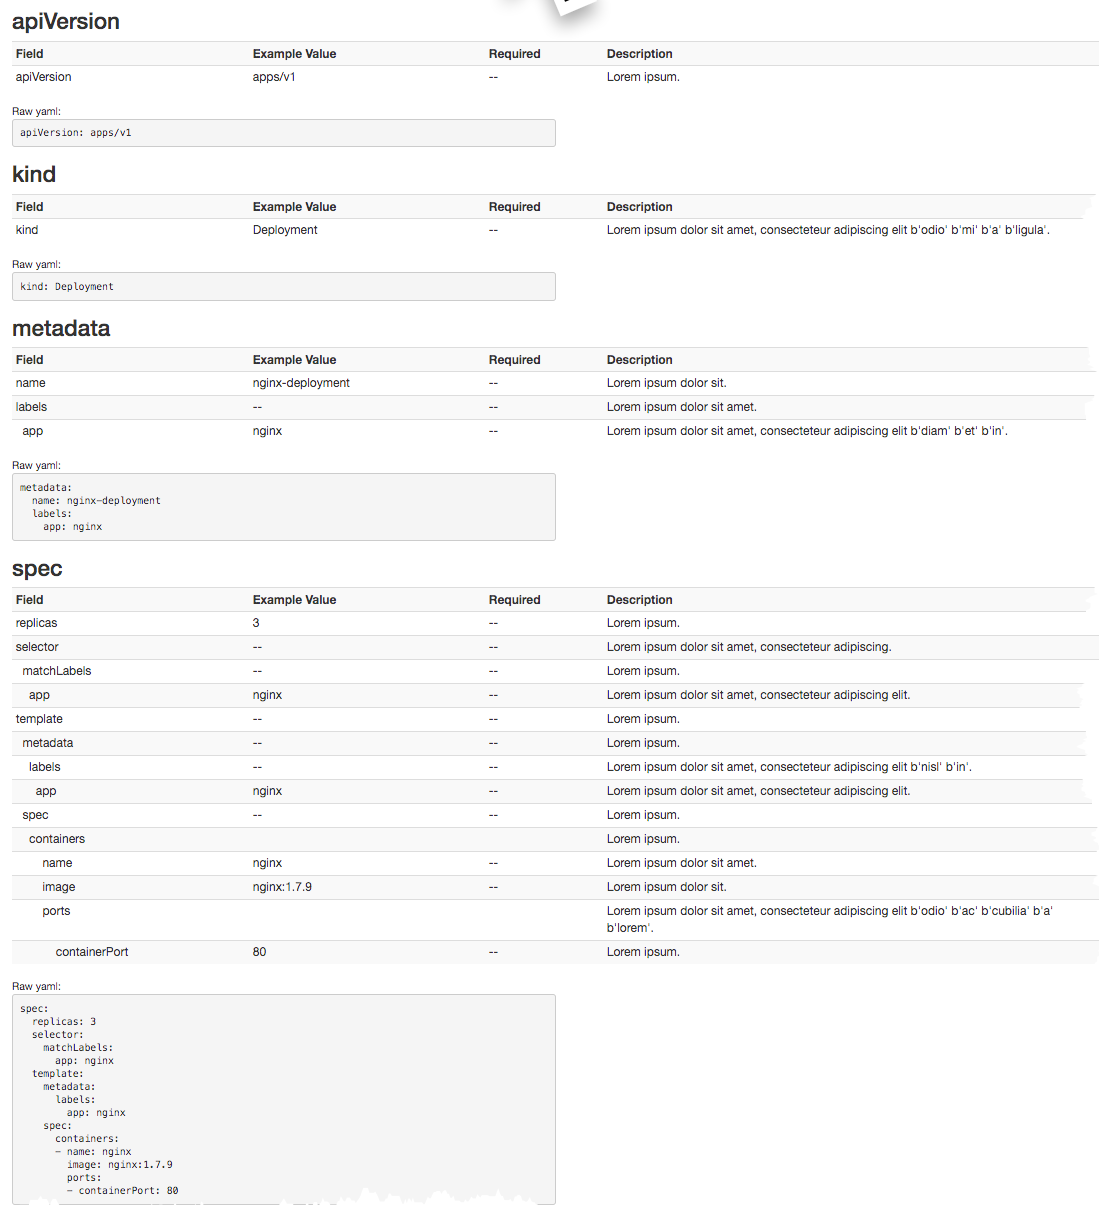
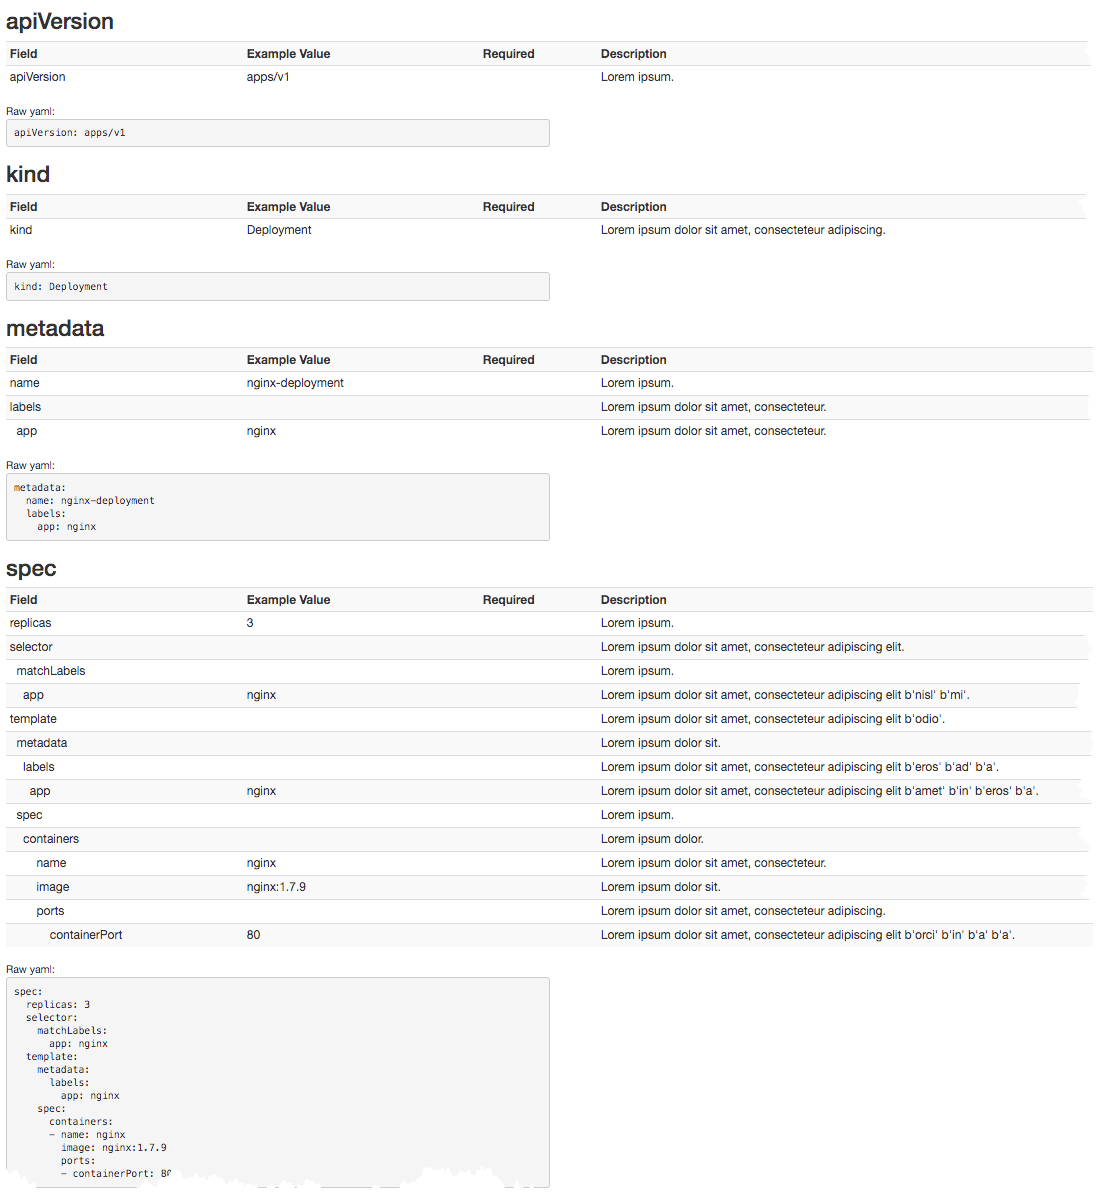
further Updated readme and added sample image for (HTML) output Updated on code to not add "--" for empty space

diff --git a/yaml_to_table.py b/yaml_to_table.py
@@ -125,12 +125,12 @@ def printDic(inDictionary, inPTable, indent):
             elif isinstance(inDictionary, list):
                 # If it simple array/list we just print all it's value and we are done
                 for _item in inDictionary:
-                    inPTable.add_row([indent + _item, "--", "--", listToString(get_sentences(1, True))])
+                    inPTable.add_row([indent + _item, SPACE_CHAR+SPACE_CHAR, SPACE_CHAR+SPACE_CHAR, listToString(get_sentences(1, True))])
                 break
 
             # if it is dictionary or list process them accordingly
             if isinstance(moreStuff, dict):
-                inPTable.add_row([indent + item, "--", "--", listToString(get_sentences(1, True))])
+                inPTable.add_row([indent + item, SPACE_CHAR+SPACE_CHAR, SPACE_CHAR+SPACE_CHAR, listToString(get_sentences(1, True))])
                 printDic(moreStuff, inPTable, SPACE_CHAR + SPACE_CHAR + indent)
             elif isinstance(moreStuff, list):
 
@@ -146,7 +146,7 @@ def printDic(inDictionary, inPTable, indent):
             else:
                 # Most of the call will end-up eventually here -
                 # this will print - key,value,isItRequired, Lorem ipsum (description)
-                inPTable.add_row([indent + item, inDictionary[item], "--", listToString(get_sentences(1, True))])
+                inPTable.add_row([indent + item, inDictionary[item], SPACE_CHAR+SPACE_CHAR, listToString(get_sentences(1, True))])
 
 
 """
@@ -190,14 +190,14 @@ with open(INPUT_YAML) as file:
                 yaml_snippet = yaml.dump(dic)
 
         else:
-            prettyTable.add_row([key, dic, "--", get_sentences(1, True)[0]])
+            prettyTable.add_row([key, dic, SPACE_CHAR+SPACE_CHAR, get_sentences(1, True)[0]])
             yaml_snippet = yaml.dump({key: dic})
 
         if isinstance(yaml_file_object, dict):
             if PRINT_HTML:
                 body_st.append("<h2>" + key + "</h2>")
             else:
-                print(key + ":")
+                print("=> "+key + ":")
 
         table = prettyTable.get_html_string(attributes={"name": key,
                                                         "id": key,

diff --git a/README.md b/README.md
@@ -2,14 +2,17 @@
 Convert YAML file to text/html table for documentation 
 
 # Introduction 
-  Time to time I needed to document YAML files for end-users.
+  Time to time I needed to document YAML files for end-users. And best way so far we have seen is to build
+  table and put each field in table row and document it. 
   I need a quick script that will take YAML file and generated (html) table;
    only thing I needed to do was to input some help text that explains field
    
-   With this python script it will do just that - give input file and format (text or html) it will   
-   it iterates over each yaml section and builds table out of it 
+   Above need gave way to this python script; it will do just that - given input file and format (text or html) it will   
+   it iterates over each yaml section and builds table(s) out of it 
    
-   This mainly uses two python library 'pyaml' and 'prettyTable' 
+   As of now it creates multiple tables based on top level YAML sections  
+   
+   This mainly uses two python libraries '*pyaml*' and '*prettyTable*' 
    
    [PYAML](https://pyyaml.org/wiki/PyYAML): For reading the yaml file    
    [PrettyTable](https://pypi.org/project/PrettyTable/): For printing text tables or HTML table    
@@ -72,57 +75,57 @@ python yaml_to_table.py --inputFile samples/k8sDeploy.yaml --out text
 You will see output like this 
 
 ```bash
-apiVersion:
-+------------+---------------+----------+------------------------------------------------------------------------------+
-| Field      | Example Value | Required | Description                                                                  |
-+------------+---------------+----------+------------------------------------------------------------------------------+
-| apiVersion | apps/v1       |    --    | Lorem ipsum dolor sit amet, consecteteur adipiscing elit b'orci' b'et' b'a'. |
-+------------+---------------+----------+------------------------------------------------------------------------------+
+=> apiVersion:
++------------+---------------+----------+--------------+
+| Field      | Example Value | Required | Description  |
++------------+---------------+----------+--------------+
+| apiVersion | apps/v1       |          | Lorem ipsum. |
++------------+---------------+----------+--------------+
 Raw yaml:
 	apiVersion: apps/v1
 
-kind:
-+-------+---------------+----------+-------------------------------------------------------------------------------------------+
-| Field | Example Value | Required | Description                                                                               |
-+-------+---------------+----------+-------------------------------------------------------------------------------------------+
-| kind  | Deployment    |    --    | Lorem ipsum dolor sit amet, consecteteur adipiscing elit b'nisi' b'mi' b'a' b'nunc' b'a'. |
-+-------+---------------+----------+-------------------------------------------------------------------------------------------+
+=> kind:
++-------+---------------+----------+------------------------+
+| Field | Example Value | Required | Description            |
++-------+---------------+----------+------------------------+
+| kind  | Deployment    |          | Lorem ipsum dolor sit. |
++-------+---------------+----------+------------------------+
 Raw yaml:
 	kind: Deployment
 
-metadata:
-+--------+------------------+----------+------------------------------------------------------------------------------------+
-| Field  | Example Value    | Required | Description                                                                        |
-+--------+------------------+----------+------------------------------------------------------------------------------------+
-| name   | nginx-deployment |    --    | Lorem ipsum dolor sit.                                                             |
-| labels | --               |    --    | Lorem ipsum dolor sit amet, consecteteur adipiscing elit b'quis' b'mi' b'a' b'ut'. |
-|   app  | nginx            |    --    | Lorem ipsum dolor.                                                                 |
-+--------+------------------+----------+------------------------------------------------------------------------------------+
+=> metadata:
++--------+------------------+----------+--------------------------------------------------------------------------------------+
+| Field  | Example Value    | Required | Description                                                                          |
++--------+------------------+----------+--------------------------------------------------------------------------------------+
+| name   | nginx-deployment |          | Lorem ipsum dolor sit amet, consecteteur adipiscing elit b'nunc' b'id' b'eu'.        |
+| labels |                  |          | Lorem ipsum dolor sit amet, consecteteur adipiscing elit b'duis' b'eu' b'id' b'sit'. |
+|   app  | nginx            |          | Lorem ipsum dolor sit amet, consecteteur adipiscing.                                 |
++--------+------------------+----------+--------------------------------------------------------------------------------------+
 Raw yaml:
 	metadata:
 	  name: nginx-deployment
 	  labels:
 	    app: nginx
 
-spec:
-+---------------------------+---------------+----------+--------------------------------------------------------------------------------------------------------------------+
-| Field                     | Example Value | Required | Description                                                                                                        |
-+---------------------------+---------------+----------+--------------------------------------------------------------------------------------------------------------------+
-| replicas                  | 3             |    --    | Lorem ipsum dolor sit amet, consecteteur.                                                                          |
-| selector                  | --            |    --    | Lorem ipsum dolor sit.                                                                                             |
-|   matchLabels             | --            |    --    | Lorem ipsum dolor sit amet, consecteteur adipiscing elit b'enim' b'eu' b'a' b'a' b'a' b'tortor' b'lacus' b'vitae'. |
-|     app                   | nginx         |    --    | Lorem ipsum dolor sit amet, consecteteur adipiscing elit b'nisi'.                                                  |
-| template                  | --            |    --    | Lorem ipsum.                                                                                                       |
-|   metadata                | --            |    --    | Lorem ipsum dolor sit amet, consecteteur adipiscing elit b'nisi' b'in'.                                            |
-|     labels                | --            |    --    | Lorem ipsum dolor sit amet, consecteteur adipiscing.                                                               |
-|       app                 | nginx         |    --    | Lorem ipsum dolor.                                                                                                 |
-|   spec                    | --            |    --    | Lorem ipsum dolor sit amet, consecteteur adipiscing.                                                               |
-|     containers            |               |          | Lorem ipsum dolor sit amet, consecteteur adipiscing elit b'elit' b'ad' b'a'.                                       |
-|         name              | nginx         |    --    | Lorem ipsum dolor sit amet.                                                                                        |
-|         image             | nginx:1.7.9   |    --    | Lorem ipsum dolor sit amet, consecteteur adipiscing elit b'orci' b'ad' b'a'.                                       |
-|         ports             |               |          | Lorem ipsum dolor sit amet, consecteteur adipiscing elit.                                                          |
-|             containerPort | 80            |    --    | Lorem ipsum dolor sit amet, consecteteur adipiscing elit b'nunc' b'eu' b'a' b'ante' b'a' b'tortor'.                |
-+---------------------------+---------------+----------+--------------------------------------------------------------------------------------------------------------------+
+=> spec:
++---------------------------+---------------+----------+---------------------------------------------------------------------------------------------------+
+| Field                     | Example Value | Required | Description                                                                                       |
++---------------------------+---------------+----------+---------------------------------------------------------------------------------------------------+
+| replicas                  | 3             |          | Lorem ipsum.                                                                                      |
+| selector                  |               |          | Lorem ipsum.                                                                                      |
+|   matchLabels             |               |          | Lorem ipsum dolor sit amet, consecteteur adipiscing elit b'arcu' b'id' b'ad' b'neque' b'a' b'eu'. |
+|     app                   | nginx         |          | Lorem ipsum.                                                                                      |
+| template                  |               |          | Lorem ipsum dolor sit amet, consecteteur.                                                         |
+|   metadata                |               |          | Lorem ipsum dolor sit amet.                                                                       |
+|     labels                |               |          | Lorem ipsum dolor sit amet, consecteteur adipiscing.                                              |
+|       app                 | nginx         |          | Lorem ipsum dolor sit amet, consecteteur adipiscing elit b'diam' b'et'.                           |
+|   spec                    |               |          | Lorem ipsum dolor sit.                                                                            |
+|     containers            |               |          | Lorem ipsum dolor sit amet, consecteteur adipiscing elit b'quis'.                                 |
+|         name              | nginx         |          | Lorem ipsum.                                                                                      |
+|         image             | nginx:1.7.9   |          | Lorem ipsum dolor sit.                                                                            |
+|         ports             |               |          | Lorem ipsum dolor sit amet, consecteteur.                                                         |
+|             containerPort | 80            |          | Lorem ipsum dolor sit amet, consecteteur adipiscing elit.                                         |
++---------------------------+---------------+----------+---------------------------------------------------------------------------------------------------+
 Raw yaml:
 	spec:
 	  replicas: 3
@@ -142,7 +145,7 @@ Raw yaml:
 
 ```
 
-If I need html as input then I can run it like this 
+If I need html as output then I can run it like this 
 
 ```bash
 > python yaml_to_table.py --inputFile samples/k8sDeploy.yaml --out html
@@ -152,3 +155,5 @@ File samples/k8sDeploy.doc.html has been generated
 Tool will generate output HTML file that will look like this :
 
 ![yaml to html](doc/k8s-html-out.png)
+
+
